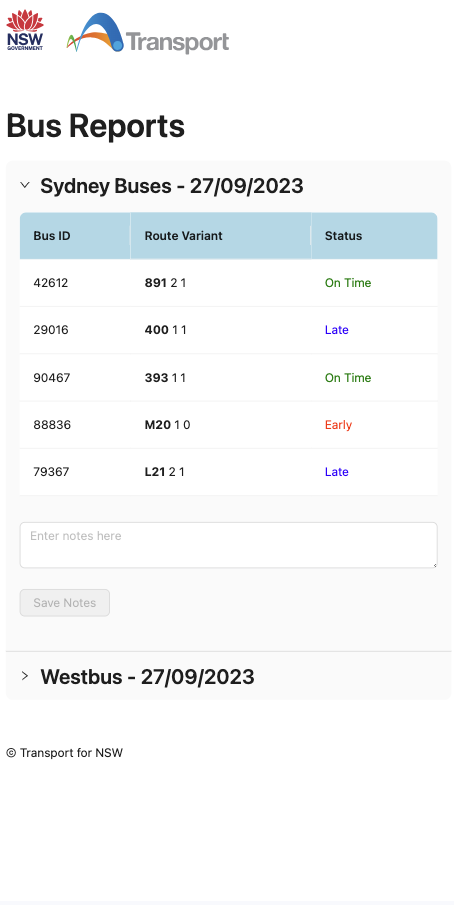
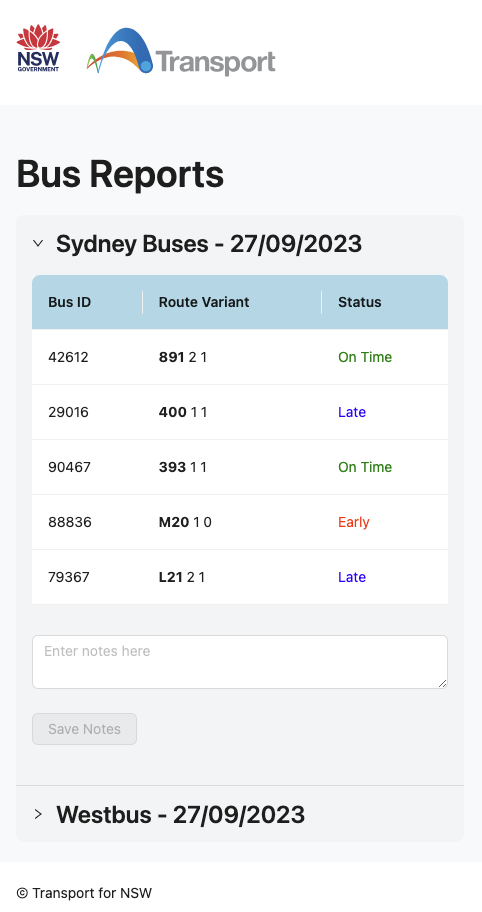
update header footer style

diff --git a/src/features/Home.tsx b/src/features/Home.tsx
@@ -2,7 +2,7 @@ import { Collapse, Spin, Typography } from 'antd';
 
 import { useGetBusReports } from '../apis/useGetReports';
 import { Report } from '../components/report/Report';
-import { HomeWrapper } from './Home.styled';
+import { HomeWrapper, HomeWrapperInner } from './Home.styled';
 
 export interface ReportProps {
   organisation: string;
@@ -30,13 +30,15 @@ export const Home = () => {
 
   return (
     <HomeWrapper>
-      <Title>Bus Reports</Title>
-      {isError ? <Title level={3}>Something is wrong, please refresh!</Title> :
-        data?.length > 0 ?
-          <Collapse items={items} bordered={false} /> :
-          <Title level={3}>No results</Title>
-      }
-      <Spin spinning={isLoading} fullscreen size="large" />
+      <HomeWrapperInner>
+        <Title>Bus Reports</Title>
+        {isError ? <Title style={{ margin: 0 }} level={3}>Something is wrong, please refresh!</Title> :
+          data?.length > 0 ?
+            <Collapse items={items} bordered={false} /> :
+            <Title level={3}>No results</Title>
+        }
+        <Spin spinning={isLoading} fullscreen size="large" />
+      </HomeWrapperInner>
     </HomeWrapper>
   )
 }

diff --git a/src/components/footer/Footer.tsx b/src/components/footer/Footer.tsx
@@ -1,11 +1,15 @@
 import { Typography } from 'antd';
+import { Wrapper } from '../header/Header.styled';
+
 const { Paragraph } = Typography;
 
 export const Footer = () => {
   return (
-    <Paragraph>
-      © Transport for NSW
+    <Wrapper>
+      <Paragraph>
+        © Transport for NSW
     </Paragraph>
+    </Wrapper>
   )
 }
 

diff --git a/src/features/Home.styled.ts b/src/features/Home.styled.ts
@@ -1,7 +1,13 @@
 import styled from 'styled-components';
 
 export const HomeWrapper = styled.div`
-  margin: 50px auto;
+  background-color: #f8f9fa;
+  padding: 20px 20px 20px;
+  margin: 20px 0;
+`
+
+export const HomeWrapperInner = styled.div`
+  margin: 0 auto;
   max-width: 800px;
   min-height: 600px;
 

diff --git a/src/components/header/Header.tsx b/src/components/header/Header.tsx
@@ -1,6 +1,7 @@
 import Logo from './image.svg';
+import { Wrapper } from './Header.styled';
 
 export const Header = () => {
-  return <img src={Logo} height="61" width="260" alt="transportnsw.info" />
+  return <Wrapper><img src={Logo} height="61" width="260" alt="transportnsw.info" /></Wrapper>
 }
 

diff --git a/src/main.tsx b/src/main.tsx
@@ -1,5 +1,6 @@
 import React from 'react';
 import ReactDOM from 'react-dom/client';
+import './index.css';
 
 import App from './App';
 

diff --git a/src/components/footer/Footer.styled.ts b/src/components/footer/Footer.styled.ts
@@ -1,0 +1,5 @@
+import styled from 'styled-components';
+
+export const Wrapper = styled.div`
+  margin: 20px
+`;

diff --git a/src/components/header/Header.styled.ts b/src/components/header/Header.styled.ts
@@ -1,0 +1,5 @@
+import styled from 'styled-components';
+
+export const Wrapper = styled.div`
+  margin: 20px
+`;

diff --git a/src/index.css b/src/index.css
@@ -1,0 +1,3 @@
+body {
+  margin: 0;
+}
